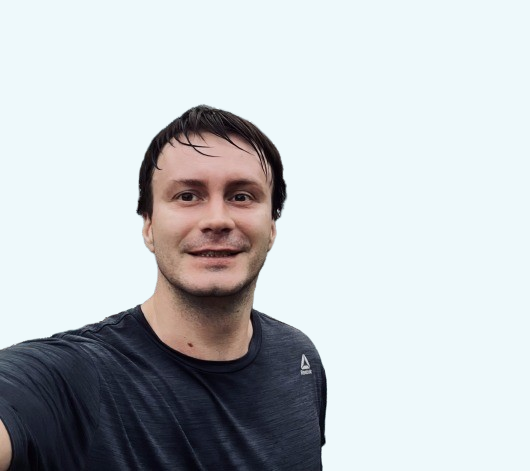
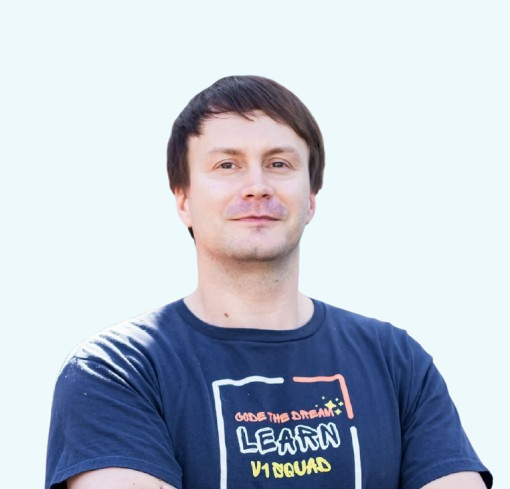
[RB-16] Update pictures

diff --git a/src/pages/About.jsx b/src/pages/About.jsx
@@ -1,10 +1,10 @@
 import React from 'react';
 import MembersList from '../components/About/MembersList';
-import avatar from '../assets/images/avatar.jpg';
 import avatar1 from '../assets/images/Evgenii.png';
 import avatar2 from '../assets/images/Liuba.png';
 import avatar3 from '../assets/images/Brandon.png';
 import avatar4 from '../assets/images/Valentina.png';
+import avatar5 from '../assets/images/Tetiana.png';
 import avatar6 from '../assets/images/Sergey.png';
 import avatar7 from '../assets/images/Dan.png';
 import avatar8 from '../assets/images/Vadim.png';
@@ -18,7 +18,7 @@ const About = () => {
 
   const backend = [
     { image: avatar4, firstName: 'Valentina', lastName: 'Rudnitskaya' },
-    { image: avatar, firstName: 'Tetiana', lastName: 'Andriyanova' },
+    { image: avatar5, firstName: 'Tetiana', lastName: 'Andriyanova' },
   ];
 
   const mentors = [
